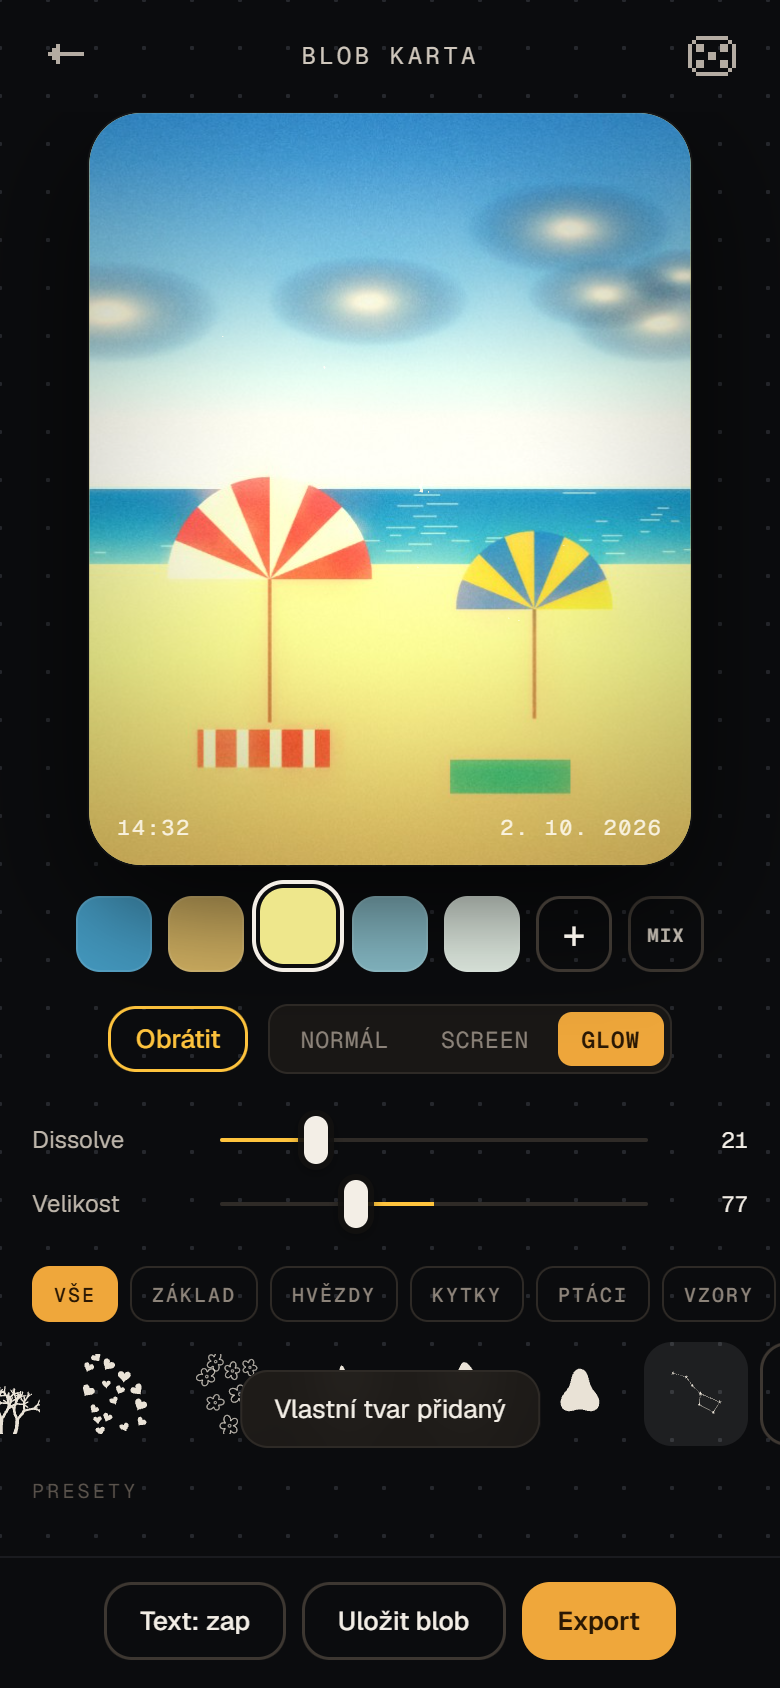
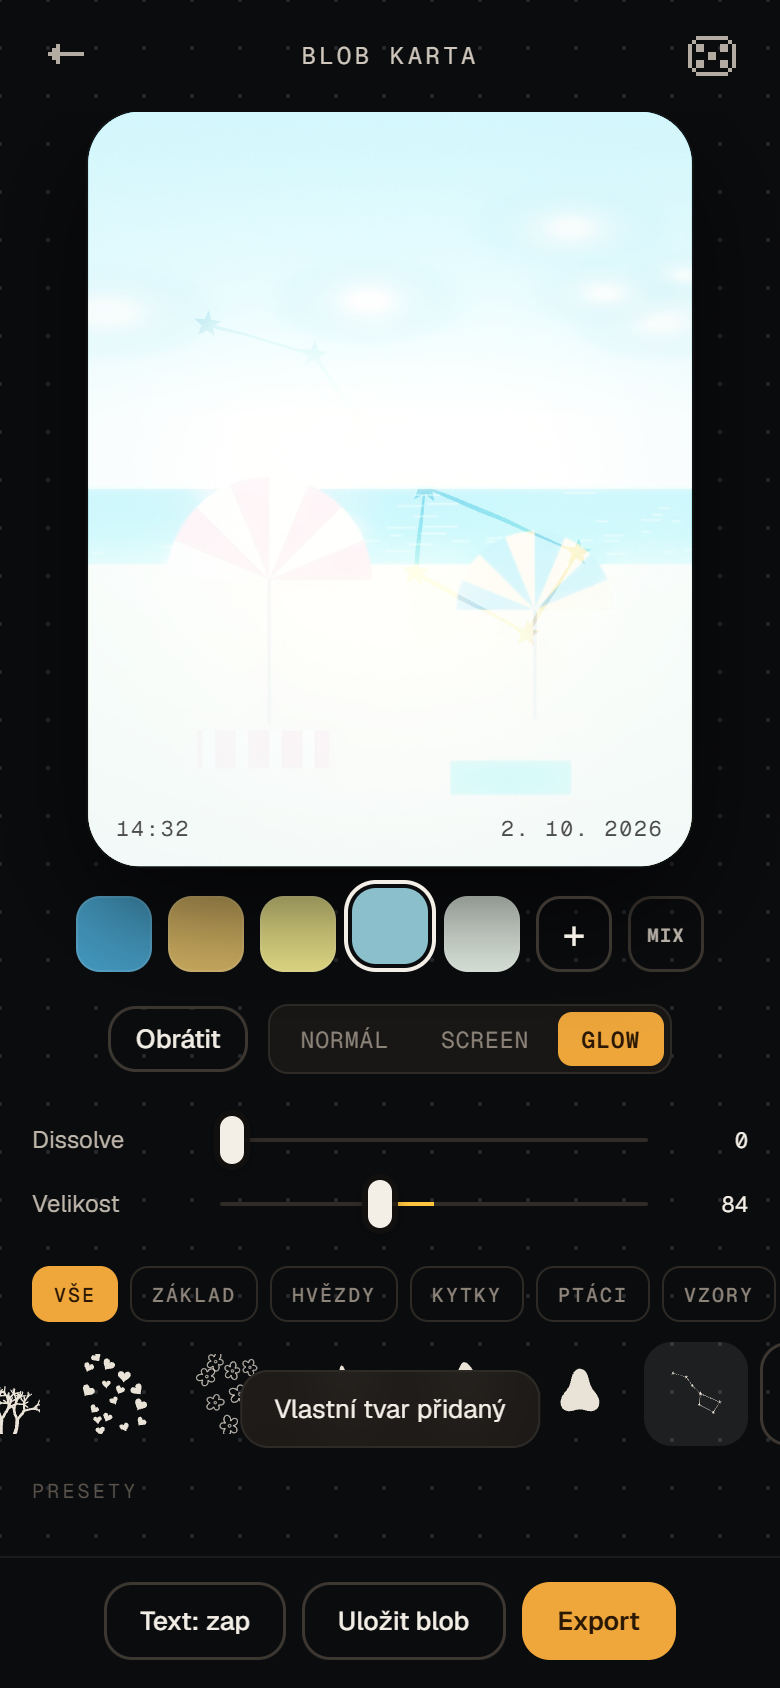
Blob: vázy jen jako kytky (kromě jedné), bez tulipánů a kytice, původní vykřičníky, minimalistický přehrávač

diff --git a/docs/preview/index.html b/docs/preview/index.html
@@ -3170,9 +3170,9 @@ const SHAPES = [{ k: 'splat', s: 3 }, { k: 'blob', n: 5, a: .2, s: 9 }, { k: 'st
   { k: 'stars', s: 11 }, { k: 'dots', s: 12 }, { k: 'flowers', s: 13 }, { k: 'sparkles', s: 14 }, { k: 'waves', s: 15 },
   { k: 'shoot', s: 21 }, { k: 'chain', s: 22 }, { k: 'beacons', s: 23 }, { k: 'stars3', s: 24 }, { k: 'snake', s: 25 }, { k: 'daisygrid', s: 26 }, { k: 'halfdaisy', s: 27 }, { k: 'outlineflowers', s: 28 }, { k: 'daisyfield', s: 29 }, { k: 'loops', s: 30 },
   { k: 'flock', s: 41 }, { k: 'gulls', s: 42 }, { k: 'birds', s: 43 }, { k: 'birdcloud', s: 44 }, { k: 'swallows', s: 45 }, { k: 'wires', s: 46 }, { k: 'pin', s: 47 },
-  { k: 'orchid', s: 48 }, { k: 'stems', s: 49 }, { k: 'poppies', s: 50 }, { k: 'tulips', s: 51 }, { k: 'bouquet', s: 52 },
-  { k: 'vase', v: 'jar', f: 'balls', s: 53, sc: .62 }, { k: 'vase', v: 'bottle', f: 'balls2', s: 54, sc: .78 }, { k: 'vase', v: 'slim', f: 'balls3', s: 55, sc: .7 },
-  { k: 'vase', v: 'slim', f: 'puff', s: 56 }, { k: 'vase', v: 'bottle', f: 'sprigs', s: 57 }, { k: 'vase', v: 'round', f: 'berries', s: 58 }, { k: 'vase', v: 'carafe', f: 'hydra', s: 59 }, { k: 'vase', v: 'slim', f: 'spike', s: 60 },
+  { k: 'orchid', s: 48 }, { k: 'stems', s: 49 }, { k: 'poppies', s: 50 },
+  { k: 'vase', v: 'jar', f: 'balls', s: 53, nov: 1, sc: .62 }, { k: 'vase', v: 'bottle', f: 'balls2', s: 54, nov: 1, sc: .78 }, { k: 'vase', v: 'slim', f: 'balls3', s: 55, sc: .7 },
+  { k: 'vase', v: 'slim', f: 'puff', s: 56, nov: 1 }, { k: 'vase', v: 'bottle', f: 'sprigs', s: 57, nov: 1 }, { k: 'vase', v: 'round', f: 'berries', s: 58, nov: 1 }, { k: 'vase', v: 'carafe', f: 'hydra', s: 59, nov: 1 }, { k: 'vase', v: 'slim', f: 'spike', s: 60, nov: 1 },
   { k: 'constellation', s: 61 }, { k: 'figures', s: 62 }, { k: 'player', s: 63 }, { k: 'bang', s: 64 }, { k: 'bolts', s: 65 },
   { k: 'bigstars', s: 31 }, { k: 'lattice', s: 32 }, { k: 'clouds', s: 33 }, { k: 'leaf', s: 34 }, { k: 'rays', s: 35 }, { k: 'blossoms', s: 36 }, { k: 'spiral', s: 37 }, { k: 'coral', s: 38 }, { k: 'hearts', s: 39 }, { k: 'blobstars', s: 40 },
   { k: 'blob', n: 7, a: .28, s: 1 }, { k: 'blob', n: 3, a: .3, s: 12 }];
@@ -3233,14 +3233,13 @@ const BIRD = f => ['M', -1, .28, 'L', -.42, .12, 'Q', -.62, -.32, -.98, -.78 + f
 const SWALLOW = ['M', -1.05, .5, 'L', -.55, .14, 'L', -1, .06, 'L', -.45, .02, 'Q', -.68, -.55, -1.05, -.92, 'Q', -.22, -.45, .05, -.1, 'Q', .3, -.6, .88, -.78, 'Q', .42, -.25, .45, -.02, 'Q', .78, -.06, .98, .06, 'Q', .6, .22, .18, .22, 'Q', -.2, .26, -.55, .22, 'Z'];
 const PERCH = ['M', -.05, -1, 'Q', .3, -1.02, .32, -.72, 'L', .5, -.66, 'L', .3, -.58, 'Q', .36, -.2, .12, .05, 'L', .02, .55, 'L', -.12, .55, 'L', -.08, .08, 'Q', -.42, -.1, -.36, -.55, 'Q', -.32, -.95, -.05, -1, 'Z'];
 const boltPath = (cx, cy, L, rot) => pathT(['M', -.14, -.5, 'L', .22, -.5, 'L', .05, -.06, 'L', .25, -.06, 'L', -.18, .52, 'L', -.03, .05, 'L', -.24, .05, 'Z'], cx, cy, L, rot);
-const tulipPath = (cx, cy, s, rot) => pathT(['M', -.5, -.15, 'Q', -.6, .55, 0, .62, 'Q', .6, .55, .5, -.15, 'L', .33, -.62, 'L', .17, -.2, 'L', 0, -.72, 'L', -.17, -.2, 'L', -.33, -.62, 'Z'], cx, cy, s, rot);
 const VASES = { jar: [[0, 0], [.42, 0], [.5, .14], [.5, .52], [.36, .68], [.3, .78], [.36, .86]], bottle: [[0, 0], [.36, 0], [.41, .08], [.41, .5], [.3, .62], [.14, .7], [.12, .95], [.16, 1]],
   slim: [[0, 0], [.22, 0], [.25, .1], [.21, .6], [.16, .86], [.21, 1]], carafe: [[0, 0], [.4, 0], [.47, .2], [.41, .5], [.2, .7], [.14, .9], [.19, 1]], round: [[0, 0], [.3, 0], [.5, .25], [.48, .46], [.25, .62], [.16, .76], [.21, .86]] };
 function vaseSvg(sh, P, fg, r) { const vs = sh.sc || 1, pr = VASES[sh.v], H = 54 * vs, W = 46 * vs, by = 117, cx = 50, top = pr[pr.length - 1], my = by - top[1] * H, mw = top[0] * W, sd = (sh.s || 1) * 101;
   const G = (d, g) => `<path data-g="${g}" d="${d}" fill="${fg}"/>`, side = pr.map(([x, y]) => [cx + x * W, by - y * H]), other = pr.slice().reverse().map(([x, y]) => [cx - x * W, by - y * H]);
-  let c = G(ink([...other, ...side.slice(1)], vs < 1 ? 1.5 : 1.9, sd, { jit: vs < 1 ? .4 : .3, taper: .25 }), 'vase'), n = 0;
+  let c = sh.nov ? '' : G(ink([...other, ...side.slice(1)], vs < 1 ? 1.5 : 1.9, sd, { jit: vs < 1 ? .4 : .3, taper: .25 }), 'vase'), n = 0;
   /* stonek: od květu přes hrdlo až skoro na dno vázy (v obrysu je vidět) */
-  const stem = (x2, y2, bend = 0) => { const bx = cx + (x2 - cx) * .22 + (r() - .5) * 6; c += G(ink([[bx, by - 3], [cx + (x2 - cx) * .12 + bend * .2, my + 2], [cx + (x2 - cx) * .55 + bend, (my + y2) / 2], [x2, y2]], 1.2, sd + ++n, { jit: .25, taper: .3 }), 'stem'); };
+  const stem = (x2, y2, bend = 0) => { const bx = cx + (x2 - cx) * .22 + (r() - .5) * 6; c += G(ink([[sh.nov ? bx + (x2 - cx) * .3 : bx, sh.nov ? 129 : by - 3], [cx + (x2 - cx) * .12 + bend * .2, my + 2], [cx + (x2 - cx) * .55 + bend, (my + y2) / 2], [x2, y2]], 1.2, sd + ++n, { jit: .25, taper: .3 }), 'stem'); };
   const head = (d, g) => { c += G(d, g); };
   switch (sh.f) {
     case 'balls': [[38, 44, 'h'], [50, 36], [61, 46]].forEach(([x, y, h], i) => { stem(x, y + 4, (i - 1) * 3); head(h ? pathT(['M', 0, .95, 'C', -1.7, -.15, -.7, -1.35, 0, -.42, 'C', .7, -1.35, 1.6, -.2, 0, .95, 'Z'], x, y, 5, -.25) : wcirc(x, y, 5, sd + i, .1), 'f' + i); }); break;
@@ -3311,36 +3310,13 @@ function shapeSvg(sh, fg, bg, fid = 'bsoft') {
       else { for (let i = 0; i < 16; i++) { const a = i / 16 * Math.PI * 2; c += P(ink([[tx + Math.cos(a) * 1.4, y - 4 + Math.sin(a) * 1.4], [tx + Math.cos(a) * 4.8, y - 4 + Math.sin(a) * 4.8]], .45, x + i, { jit: .08 })); } c += P(wcirc(tx, y - 4, 1.5, x)); } }); return c; }
     case 'poppies': return [[30, 40, 8.5], [55, 30, 9.5], [76, 46, 8], [20, 66, 7], [44, 58, 8.5], [66, 66, 7.5], [84, 72, 6.5], [33, 84, 7], [57, 84, 7.5], [16, 92, 6]].map(([x, y, R], i) =>
       P(ink([[x, y + R * .3], [x + (r() - .5) * 5, (y + 128) / 2], [x + (r() - .5) * 8, 129]], .8, 5600 + i, { jit: .25, taper: .1 })) + `<path d="${petalPath(x, y, R, 5, r() * 6, .5, .3, .16)}${wcirc(x, y + R * .1, R * .16, i)}" fill="${fg}" fill-rule="evenodd"/>`).join('');
-    case 'tulips': { let c = ''; const T = [[33, 40, -.42, 11], [46, 31, -.12, 12], [58, 36, .18, 11.5], [69, 47, .5, 10.5], [52, 49, .05, 10]];
-      T.forEach(([x, y, rt, s0], i) => { const bx = 50 + (x - 50) * .12, mx = (x + bx) / 2 + (x - 50) * .35 + (i % 2 ? 3 : -3);
-        c += P(ink([[bx, 116], [mx, (y + 116) / 2 + 6], [x, y + s0 * .5]], 1.7, 5100 + i, { jit: .35, taper: .25 }));
-        const cup = [[-.48, -.1], [-.52, .32], [-.3, .58], [0, .64], [.32, .57], [.52, .3], [.5, -.12], [.36, -.62], [.18, -.2], [.02, -.74], [-.16, -.22], [-.36, -.6]];
-        c += P(wob(cup.map(([u, v]) => [x + (u * Math.cos(rt) - v * Math.sin(rt)) * s0, y + (u * Math.sin(rt) + v * Math.cos(rt)) * s0]), 5150 + i, .7, .1)); });
-      [[-1, 40, .55, 6], [1, 36, .5, 5.5], [-.45, 30, .8, 4.5], [.6, 28, .85, 4]].forEach(([sd, L, k, Wd], i) => { const tip = [50 + sd * L * k, 116 - L], mid = [50 + sd * L * .55, 116 - L * .45];
-        c += P(wob([[50, 117], [mid[0] - sd * Wd * .2, mid[1] - Wd * .6], [tip[0], tip[1]], [mid[0] + sd * Wd * .9, mid[1] + Wd * .5], [50 + sd * 3, 117]], 5180 + i, .8, .16)); }); return c; }
-    case 'bouquet': { let c = ''; const sd0 = 5200, fl = [[38, 36, 'daisy', 7], [52, 28, 'round', 7.5], [64, 37, 'daisy', 6], [45, 47, 'bell', 6.5], [59, 50, 'round', 5.5], [32, 50, 'bud', 4], [70, 51, 'bud', 3.6], [50, 40, 'small', 4.2], [41, 26, 'small', 3.4]];
-      fl.forEach(([x, y, t, R], i) => { c += P(ink([[x, y + R * .5], [50 + (x - 50) * .5 + (i % 2 ? 2 : -2), (y + 78) / 2], [50 + (x - 50) * .08, 84]], .95, sd0 + i, { jit: .25, taper: .2 }));
-        if (t === 'daisy') c += `<path d="${petalPath(x, y, R, 11, i, 2.2, .55, .12)}${wcirc(x, y, R * .28, i)}" fill="${fg}" fill-rule="evenodd"/>`;
-        else if (t === 'round') c += `<path d="${petalPath(x, y, R, 5, i * 1.3, .7, .35, .14)}${wcirc(x, y, R * .22, i)}" fill="${fg}" fill-rule="evenodd"/>`;
-        else if (t === 'bell') c += P(wob([[-.48, -.1], [-.52, .3], [-.3, .58], [0, .64], [.32, .57], [.52, .3], [.5, -.12], [.36, -.62], [.18, -.2], [.02, -.74], [-.16, -.22], [-.36, -.6]].map(([u, v]) => [x + u * R * 1.5, y + v * R * 1.5]), i, .5, .1));
-        else if (t === 'bud') c += P(wob([[x, y - R * 1.3], [x + R * .7, y], [x, y + R * .6], [x - R * .7, y]], sd0 + i, .3, .2));
-        else c += P(petalPath(x, y, R, 5, i, 1, .45, .12)); });
-      [[-1, 64, 40, 9], [1, 64, 38, 8], [-.7, 58, 28, 6]].forEach(([s1, y0, L, Wd], i) => c += P(wob([[50 + s1 * 2, y0 + 12], [50 + s1 * L * .45, y0 + 2 - Wd * .3], [50 + s1 * L * .62, y0 - 6], [50 + s1 * L * .4, y0 + 4 + Wd * .4]], 5260 + i, .6, .18)));
-      const H2 = (pts, k, w = 1.5) => P(ink(pts, w, 5300 + k, { jit: .3, taper: .3 }));
-      /* pěst: obrys, tři prsty, palec přes stonky, zápěstí */
-      c += H2([[42.5, 80], [40, 85.5], [40.5, 92], [44, 97], [51, 98.5], [57.5, 96.5], [60.5, 91]], 1, 1.7) + H2([[42.5, 80], [48, 78.5], [55, 79.5], [60, 82], [61.5, 86.5], [60.5, 91]], 2, 1.7)
-        + H2([[41.5, 86], [47, 85], [53, 86], [58, 87.5]], 3, 1.2) + H2([[41.2, 91], [47, 90.5], [53, 91.5], [57.5, 92.5]], 4, 1.2)
-        + H2([[44, 80], [47.5, 82.5], [53.5, 83], [58, 81]], 5, 1.3) + H2([[45, 98], [43.5, 112], [42, 128]], 7) + H2([[57, 97], [59, 112], [61, 128]], 8); return c; }
     case 'vase': return vaseSvg(sh, P, fg, r);
     case 'constellation': { const st = [[14, 30], [35, 36], [44, 49], [57, 62], [55, 79], [77, 91], [87, 75]]; let c = ''; [[0, 1], [1, 2], [2, 3], [3, 4], [4, 5], [5, 6], [6, 3]].forEach(([a, b], k) => c += P(ink([st[a], st[b]], .8, 6100 + k, { jit: .12, taper: .1 })));
       st.forEach(([x, y], i) => c += P(starPath(x, y, i === 3 ? 3.4 : 2.8, 5, .42, .1))); return c; }
     case 'figures': return `<g transform="translate(4 20.2) scale(.144) translate(0 587) scale(.1 -.1)"><path d="${FIG_D}" fill="${fg}"/></g>`; // postavy: Honzovo SVG (tetovani-.svg)
-    case 'player': { const tri = (x, y, s, d, k) => wob([[x - s * d, y - s], [x + s * d * .95, y], [x - s * d, y + s]], 6300 + k, .35, .05);
-      return P(tri(26, 62, 4.6, -1, 1) + tri(33, 62, 4.6, -1, 2)) + P(wob([[44.5, 56.5], [48, 56.3], [48.2, 67.6], [44.7, 67.4]], 6310, .3, .06) + wob([[52, 56.4], [55.5, 56.6], [55.3, 67.5], [51.8, 67.6]], 6311, .3, .06)) + P(tri(67, 62, 4.6, 1, 3) + tri(74, 62, 4.6, 1, 4)); }
-    case 'bang': { let c = ''; [[37, 50, -.32, 1, 1], [63, 55, .18, 1.2, 2]].forEach(([x, y, rt, k, i]) => { const T = (u, v) => [x + (u * Math.cos(rt) - v * Math.sin(rt)) * k, y + (u * Math.sin(rt) + v * Math.cos(rt)) * k];
-        c += P(wob([[-6.5, -27], [-1, -29.5], [6.5, -27.5], [5.5, -10], [2.8, 10], [0, 12.5], [-3, 10], [-5, -10]].map(([u, v]) => T(u, v)), 6400 + i, .9, .16));
-        c += P(wob([[-4, 17], [0, 15.5], [4.2, 17.5], [4, 23], [0, 25], [-4.2, 23]].map(([u, v]) => T(u, v)), 6410 + i, .6, .2)); });
-      [[22, 26, -2.5], [50, 18, -1.6], [78, 28, -.6]].forEach(([x, y, a], i) => c += P(ink([[x, y], [x + Math.cos(a) * 7, y + Math.sin(a) * 7]], 1.6, 6420 + i, { jit: .1, taper: .7 }))); return c; }
+    case 'player': { const tri = (x, y, h, d) => `M${f2(x - h * .9 * d)} ${f2(y - h)}L${f2(x + h * .9 * d)} ${f2(y)}L${f2(x - h * .9 * d)} ${f2(y + h)}Z`; // malé a čisté jako v inspu
+      return P(tri(28, 62.5, 2.6, -1) + tri(32.3, 62.5, 2.6, -1)) + P(`M47.6 59.4h1.9v6.2h-1.9zM50.5 59.4h1.9v6.2h-1.9z`) + P(tri(67.7, 62.5, 2.6, 1) + tri(72, 62.5, 2.6, 1)); }
+    case 'bang': return [[36, 54, -.22, 1], [62, 58, .12, 1.15]].map(([x, y, rt, k]) => P(pathT(['M', -.17, -.62, 'L', .17, -.62, 'L', .09, .25, 'L', -.09, .25, 'Z'], x, y, 44 * k, rt)) + P(pathT(['M', -.09, .36, 'L', .09, .36, 'L', .09, .5, 'L', -.09, .5, 'Z'], x, y, 44 * k, rt))).join('');
     case 'bolts': return [-160, -125, -90, -55, -20].map(dg => { const a = dg * Math.PI / 180; return P(boltPath(50 + Math.cos(a) * 36, 80 + Math.sin(a) * 38, 30, a + Math.PI / 2)); }).join('');
     case 'bigstars': return scatter(r, 20, 1.05, 4.5, 10).map(([x, y, R]) => P(starPath(x, y, R, 5, .42, r() * 6))).join('');
     case 'lattice': { let c = ''; const R = 12.7, k = .8; for (let y = 0; y <= 125.1; y += 25) for (let x = 0; x <= 100.1; x += 25) { let d = ''; // čtyřcípé hvězdy, mezi nimi zaoblené čtverce
@@ -3427,7 +3403,7 @@ function syncBlobCtl() {
   [['#bDis', B.dis], ['#bSize', B.size]].forEach(([id, v]) => { const i = $(id); i.value = Math.round(v * 100); i.nextElementSibling.textContent = i.value; paintRange(i); });
 }
 const SCAT = { zaklad: ['blob', 'splat', 'soft', 'stamp', 'snake', 'spiral', 'clouds', 'hearts'], hvezdy: ['star', 'sparkle', 'stars', 'sparkles', 'chain', 'beacons', 'stars3', 'bigstars', 'lattice', 'rays', 'blobstars', 'constellation', 'shoot'],
-  kytky: ['flower', 'flowers', 'daisygrid', 'halfdaisy', 'outlineflowers', 'daisyfield', 'blossoms', 'leaf', 'coral', 'orchid', 'stems', 'poppies', 'tulips', 'bouquet', 'vase'],
+  kytky: ['flower', 'flowers', 'daisygrid', 'halfdaisy', 'outlineflowers', 'daisyfield', 'blossoms', 'leaf', 'coral', 'orchid', 'stems', 'poppies', 'vase'],
   ptaci: ['flock', 'gulls', 'birds', 'birdcloud', 'swallows', 'wires'], vzory: ['dots', 'waves', 'loops', 'stars', 'flowers', 'sparkles', 'lattice', 'hearts', 'clouds', 'bigstars', 'daisyfield'], ikony: ['player', 'bang', 'bolts', 'figures', 'pin'], moje: ['draw', 'img'] };
 const SCATN = [['vse', 'VŠE'], ['zaklad', 'ZÁKLAD'], ['hvezdy', 'HVĚZDY'], ['kytky', 'KYTKY'], ['ptaci', 'PTÁCI'], ['vzory', 'VZORY'], ['ikony', 'IKONY'], ['moje', 'MOJE']];
 function renderShapes() {
@@ -3461,7 +3437,7 @@ function selectShape(i) {
   drawBlob(); spring(.94, 1, v => $('#bCard').style.transform = `scale(${v})`, { k: 300, c: 16 });
 }
 function diceShape() { // kostka: jeden „náhodný“ slot, náhodný tvar i nastavení; líbí-li se, ulož ho jako preset
-  const kinds = ['blob', 'blob', 'splat', 'star', 'sparkle', 'flower', 'stars', 'dots', 'flowers', 'sparkles', 'waves', 'shoot', 'chain', 'beacons', 'stars3', 'snake', 'daisygrid', 'halfdaisy', 'outlineflowers', 'daisyfield', 'loops', 'flock', 'birds', 'birdcloud', 'swallows', 'wires', 'orchid', 'poppies', 'tulips', 'stems', 'constellation', 'bolts', 'bigstars', 'lattice', 'clouds', 'leaf', 'rays', 'blossoms', 'spiral', 'coral', 'hearts', 'blobstars'], rnd = a => a[Math.floor(Math.random() * a.length)];
+  const kinds = ['blob', 'blob', 'splat', 'star', 'sparkle', 'flower', 'stars', 'dots', 'flowers', 'sparkles', 'waves', 'shoot', 'chain', 'beacons', 'stars3', 'snake', 'daisygrid', 'halfdaisy', 'outlineflowers', 'daisyfield', 'loops', 'flock', 'birds', 'birdcloud', 'swallows', 'wires', 'orchid', 'poppies', 'stems', 'constellation', 'bolts', 'bigstars', 'lattice', 'clouds', 'leaf', 'rays', 'blossoms', 'spiral', 'coral', 'hearts', 'blobstars'], rnd = a => a[Math.floor(Math.random() * a.length)];
   const sh = { k: rnd(kinds), s: 1 + Math.floor(Math.random() * 9999), n: 3 + Math.floor(Math.random() * 6), a: .1 + Math.random() * .25, rnd: true };
   let i = SHAPES.findIndex(x => x.rnd); if (i < 0) { SHAPES.push(sh); i = SHAPES.length - 1; } else SHAPES[i] = sh;
   Object.assign(B, { inv: Math.random() < .3, dis: Math.random() < .35 ? +(.15 + Math.random() * .45).toFixed(2) : 0, blend: rnd(['normal', 'normal', 'screen', 'glow']), size: +(.75 + Math.random() * .3).toFixed(2), bg: Math.floor(Math.random() * 5) });
